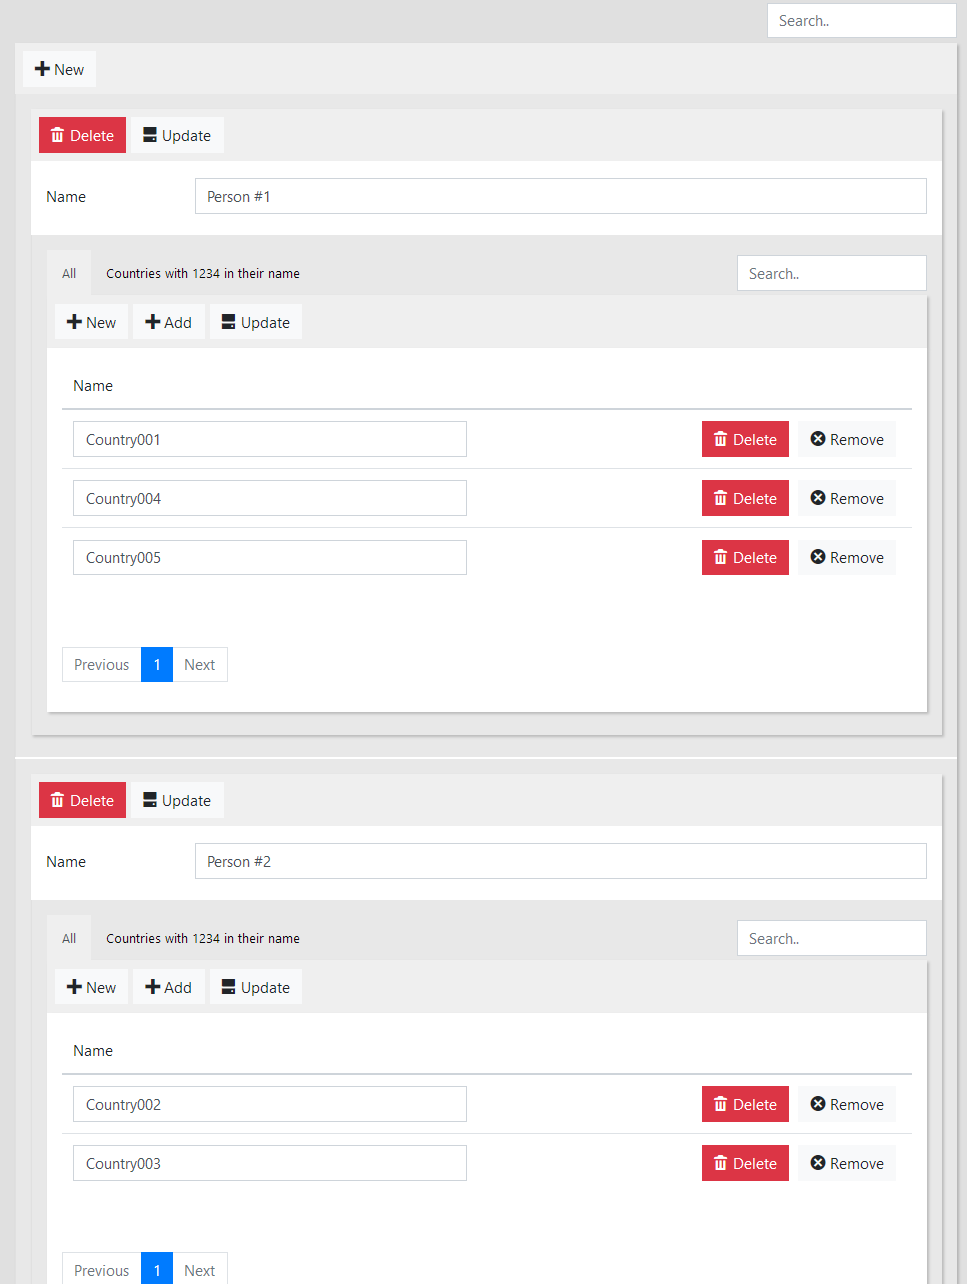
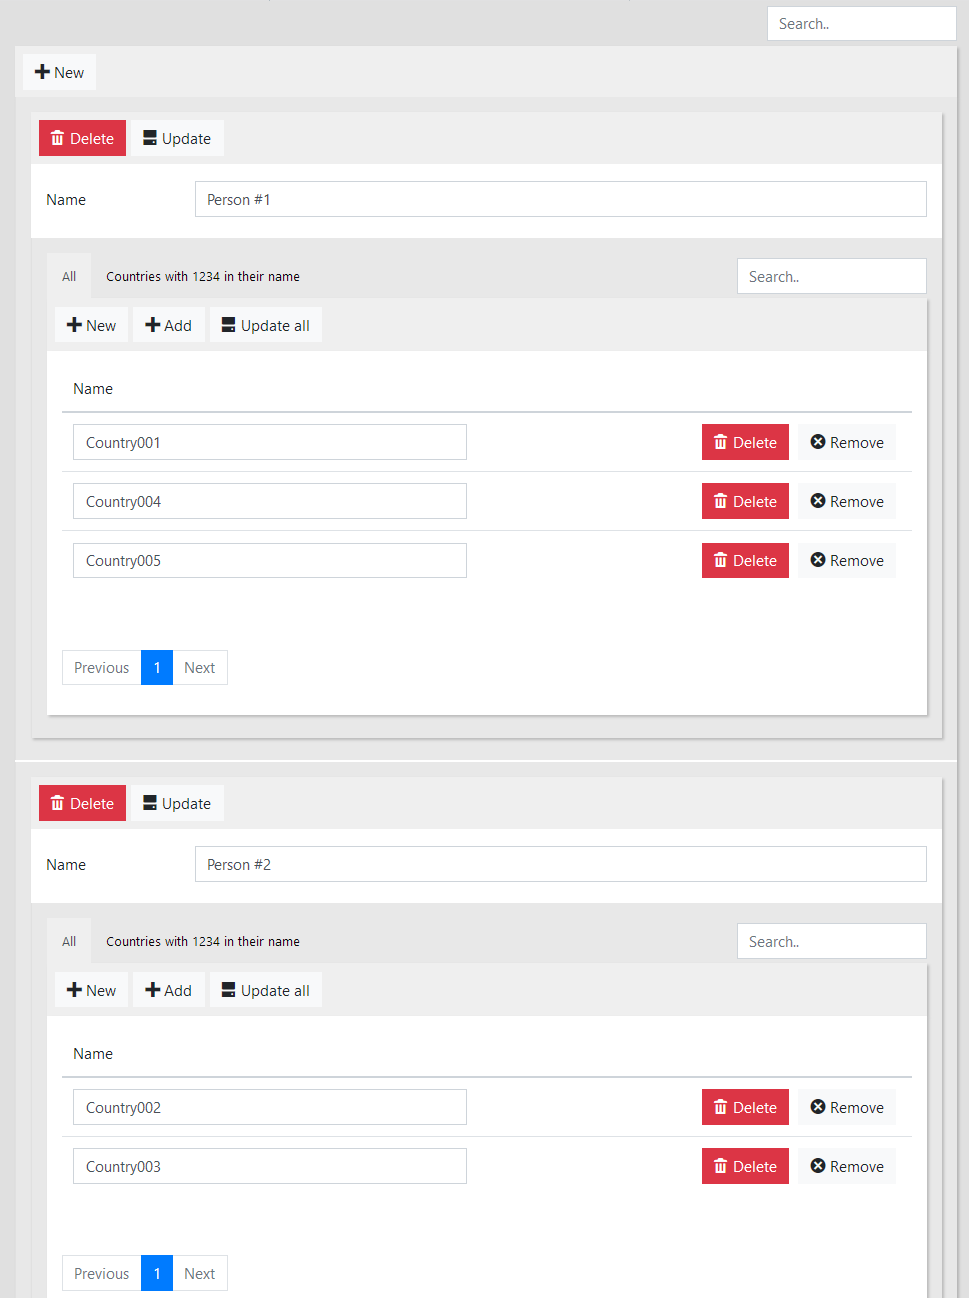
Docs fix

diff --git a/RapidCMS/TestServer/Startup.cs b/RapidCMS/TestServer/Startup.cs
@@ -310,7 +310,7 @@ namespace TestServer
                             list.AddDefaultButton(DefaultButtonType.New);
                             list.AddDefaultButton(DefaultButtonType.Add);
 
-                            list.AddDefaultButton(DefaultButtonType.SaveExisting);
+                            list.AddDefaultButton(DefaultButtonType.SaveExisting, "Update all");
                             list.AddSection(pane =>
                             {
                                 pane.AddField(p => p.Name);
@@ -456,8 +456,6 @@ namespace TestServer
                             });
                             editor.AddSection(pane =>
                             {
-                                //pane.AddRelatedCollectionList<CountryEntity>("related-country-collection");
-
                                 pane.AddField(f => f.Countries)
                                     .SetName("Countries")
                                     .SetType(EditorType.MultiSelect)
@@ -469,17 +467,6 @@ namespace TestServer
                                             relation
                                                 .SetElementIdProperty(x => x._Id)
                                                 .SetElementDisplayProperties(x => x._Id.ToString(), x => x.Name);
-
-                                            //relation
-                                            //    .ValidateRelation((person, related) =>
-                                            //    {
-                                            //        if (!related.Count().In(2, 3))
-                                            //        {
-                                            //            return new[] { "Person must have 2 or 3 countries." };
-                                            //        }
-
-                                            //        return default;
-                                            //    });
                                         });
                             });
                         });
